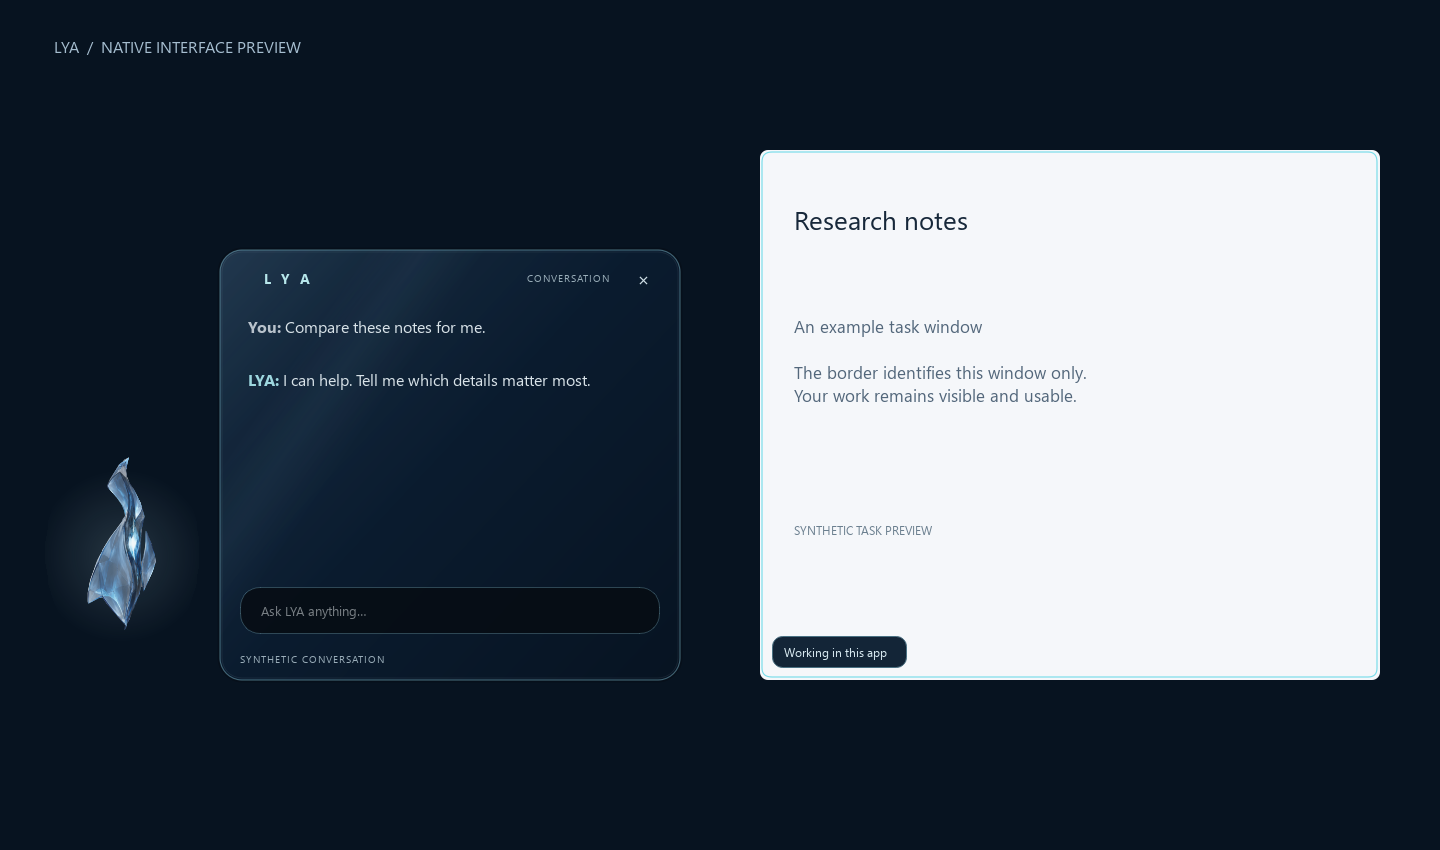
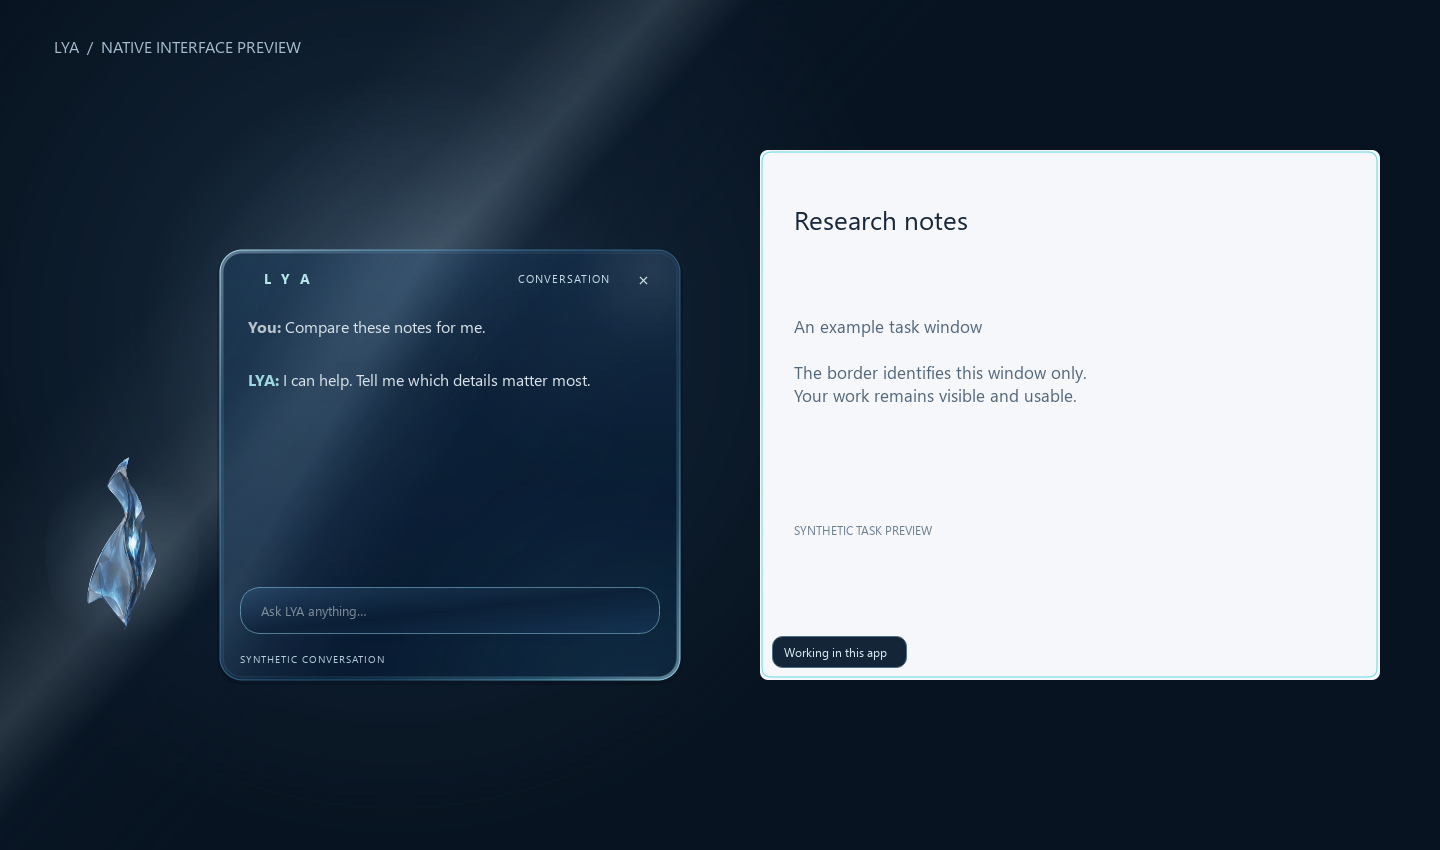
Record revised glass material, light and dark Windows previews

Changed region(s): [[0.0, 0.0, 0.5, 0.8871]]

diff --git a/review/2026-10-16-glass-conversation/README.md b/review/2026-10-16-glass-conversation/README.md
@@ -46,6 +46,8 @@ Implemented in [PR #4](https://github.com/Kathirvel2321/lya2.0/pull/4), separate
 
 Owner rejected the first native surface as too flat compared with the generated reference. The earlier 244/255 base alpha was effectively opaque. Revised `glass_style.py` uses actual tinted transmission (base alpha 158–205), broad feathered light reflections, a 3.3-logical-pixel bevel, a luminous outer rim and a recessed inner edge. The composer has matching translucent glass styling and status text has stronger contrast. The existing opaque readability setting still produces an opaque body. No screenshot capture, desktop sampling, native blur API or continuous refraction was added. This is translucent glass with authored reflections, not physically accurate live frosting/refraction.
 
-The material is baked once into one pixmap per current size/DPR/opaque setting, with DPR capped at two. Task colours and glint frames reuse the same cached pixmap. Added two meaningful checks for actual alpha transmission/opaque fallback and cache stability across activity/glint frames and resize. All 13 focused Qt checks pass locally. A synthetic patterned desktop now exposes transmission in dark and light renders rather than hiding it against a flat navy background. Windows verification of this revision is pending.
+The material is baked once into one pixmap per current size/DPR/opaque setting, with DPR capped at two. Task colours and glint frames reuse the same cached pixmap. Added two meaningful checks for actual alpha transmission/opaque fallback and cache stability across activity/glint frames and resize. All 13 focused Qt checks pass locally. A synthetic patterned desktop now exposes transmission in dark and light renders rather than hiding it against a flat navy background. Windows run [38860563785](https://github.com/Kathirvel2321/lya2.0/actions/runs/38860563785) passes 51 existing backend/research cases, all 13 focused Qt cases, and the native Windows overlay smoke check at runtime commit `b59a393a618349f0864f57e3fc7b0d5992753b1d`. Both final Windows previews were digest-verified and visually inspected.
 
 The approved body asset, app task routing and border controller are unchanged by this correction. Battery consumption and final owner-device visual acceptance remain unmeasured.
+
+[Glass on a light desktop](native-preview-light.png) · [Glass on a dark desktop](native-preview.png)

diff --git a/lya-project-brain.md b/lya-project-brain.md
@@ -398,4 +398,4 @@ Source and evidence: [implementation report](review/2026-10-16-glass-conversatio
 
 ### Glass surface correction — 2026-10-16
 
-Owner found PR #4's native surface insufficiently glassy. Replaced the nearly opaque material with actual tinted alpha transmission, broad feathered reflections, a beveled rim and matching glass composer. One cached pixmap per size/DPR/opaque choice preserves low idle work; activity/glint reuses it. Status text contrast improved. Added alpha/opaque and cache-invariance checks; all 13 focused Qt checks pass locally. Patterned dark/light synthetic previews show real background transmission. Windows requalification is pending for this revision. The artwork, border worker targets, speech/hearing and task authority are unchanged. See [report](review/2026-10-16-glass-conversation/README.md). No merge/deployment or exact photographic refraction claim.
+Owner found PR #4's native surface insufficiently glassy. Replaced the nearly opaque material with actual tinted alpha transmission, broad feathered reflections, a beveled rim and matching glass composer. One cached pixmap per size/DPR/opaque choice preserves low idle work; activity/glint reuses it. Status text contrast improved. Added alpha/opaque and cache-invariance checks; all 13 focused Qt checks pass locally. Patterned dark/light synthetic previews show real background transmission. Windows run [38860563785](https://github.com/Kathirvel2321/lya2.0/actions/runs/38860563785) passes all 64 selected tests (51 existing + 13 focused Qt) and the native overlay smoke check at runtime commit `b59a393a618349f0864f57e3fc7b0d5992753b1d`. Final Windows dark/light previews were digest-verified and visually inspected. The artwork, border worker targets, speech/hearing and task authority are unchanged. See [report](review/2026-10-16-glass-conversation/README.md). No merge/deployment or exact photographic refraction claim.
